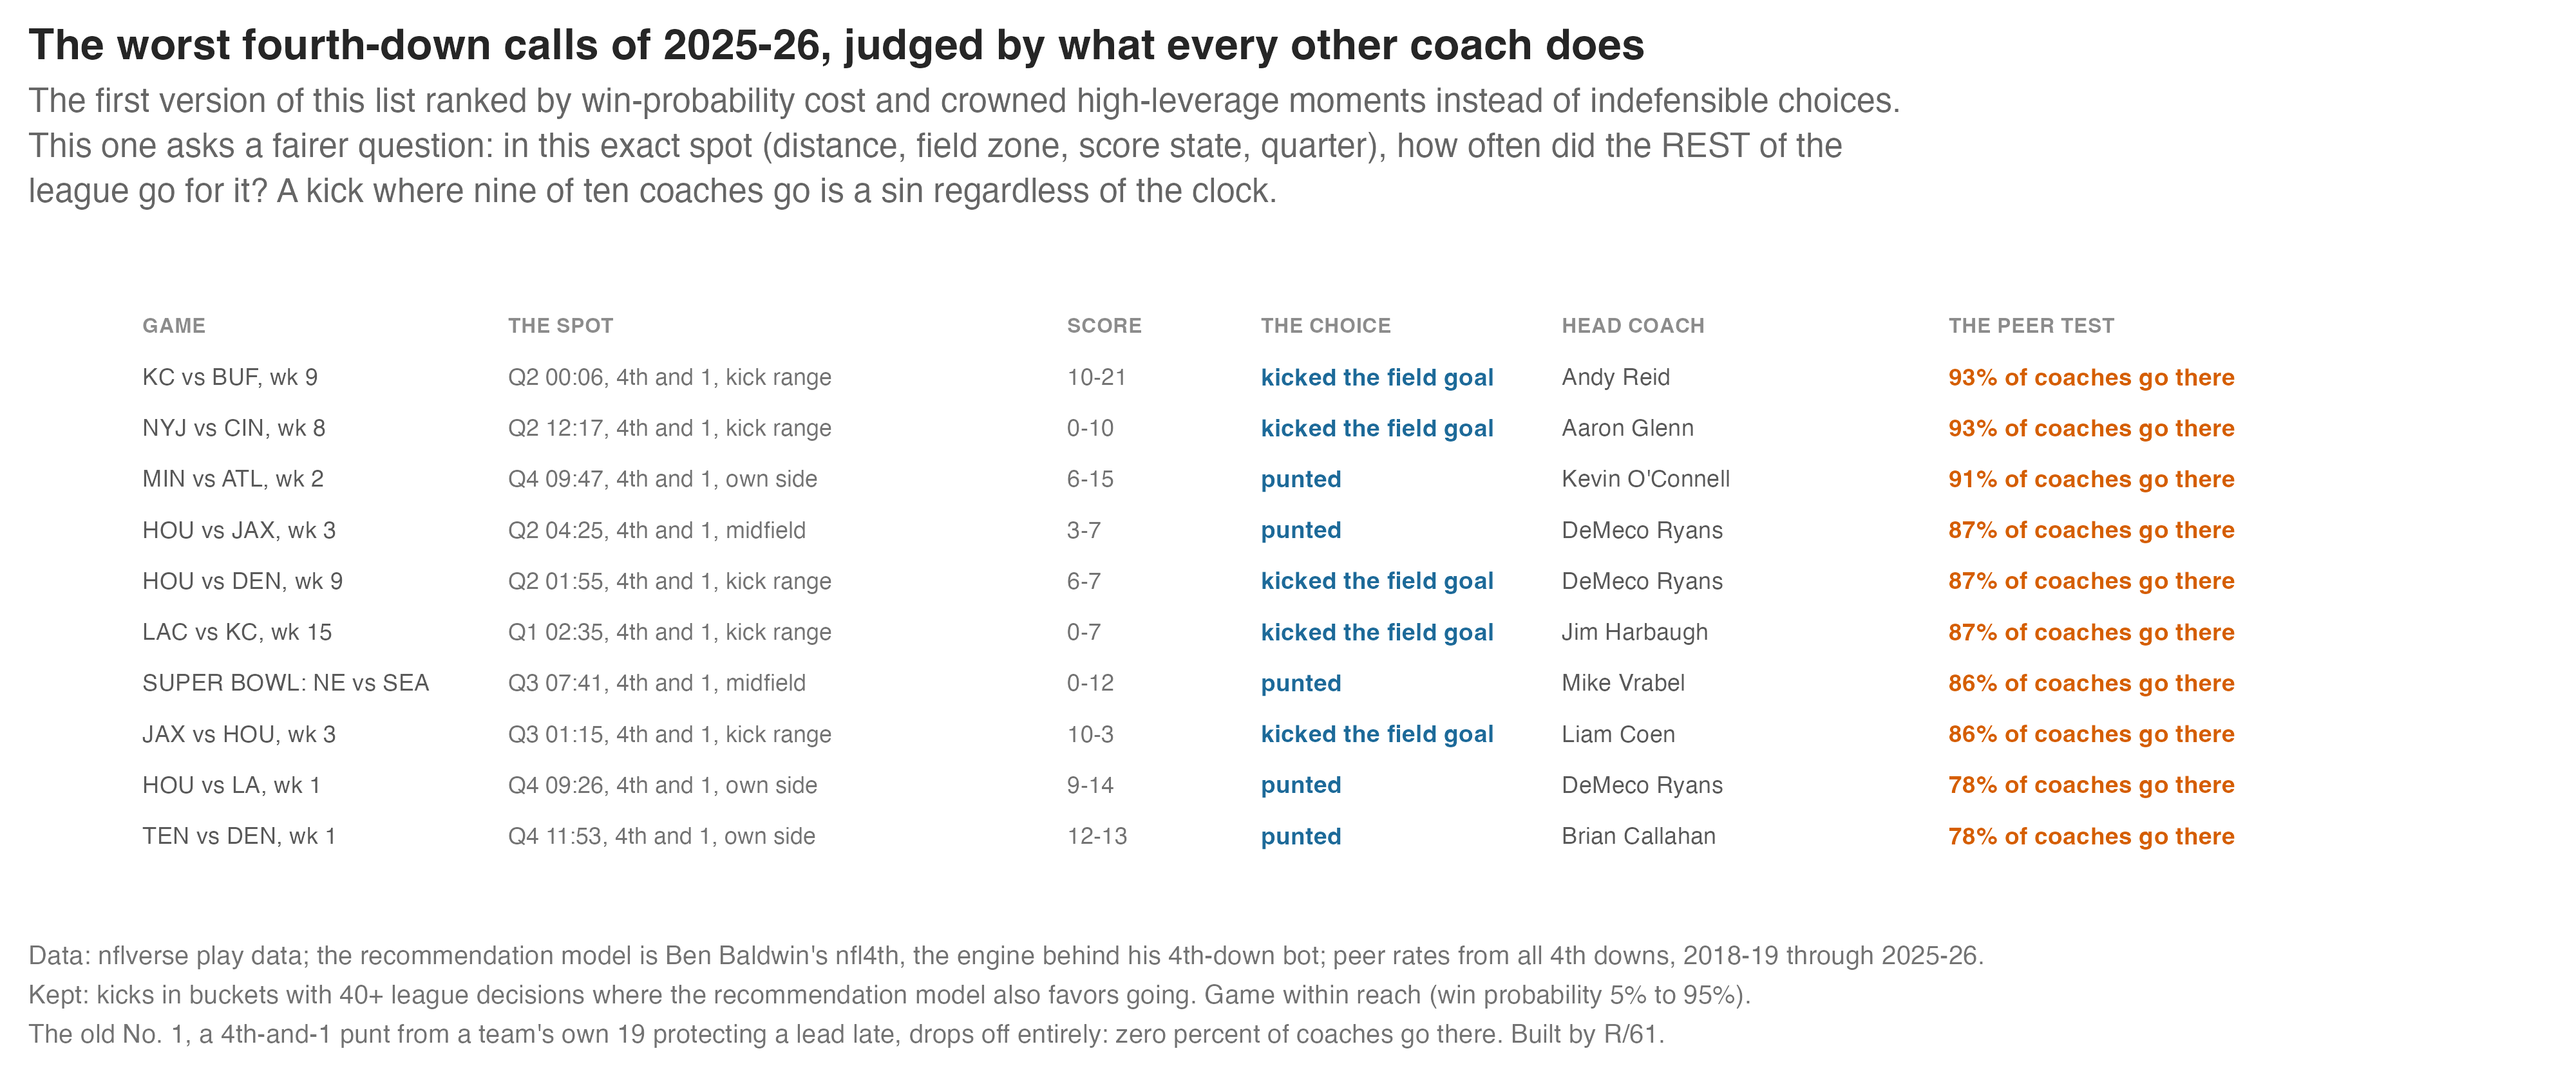
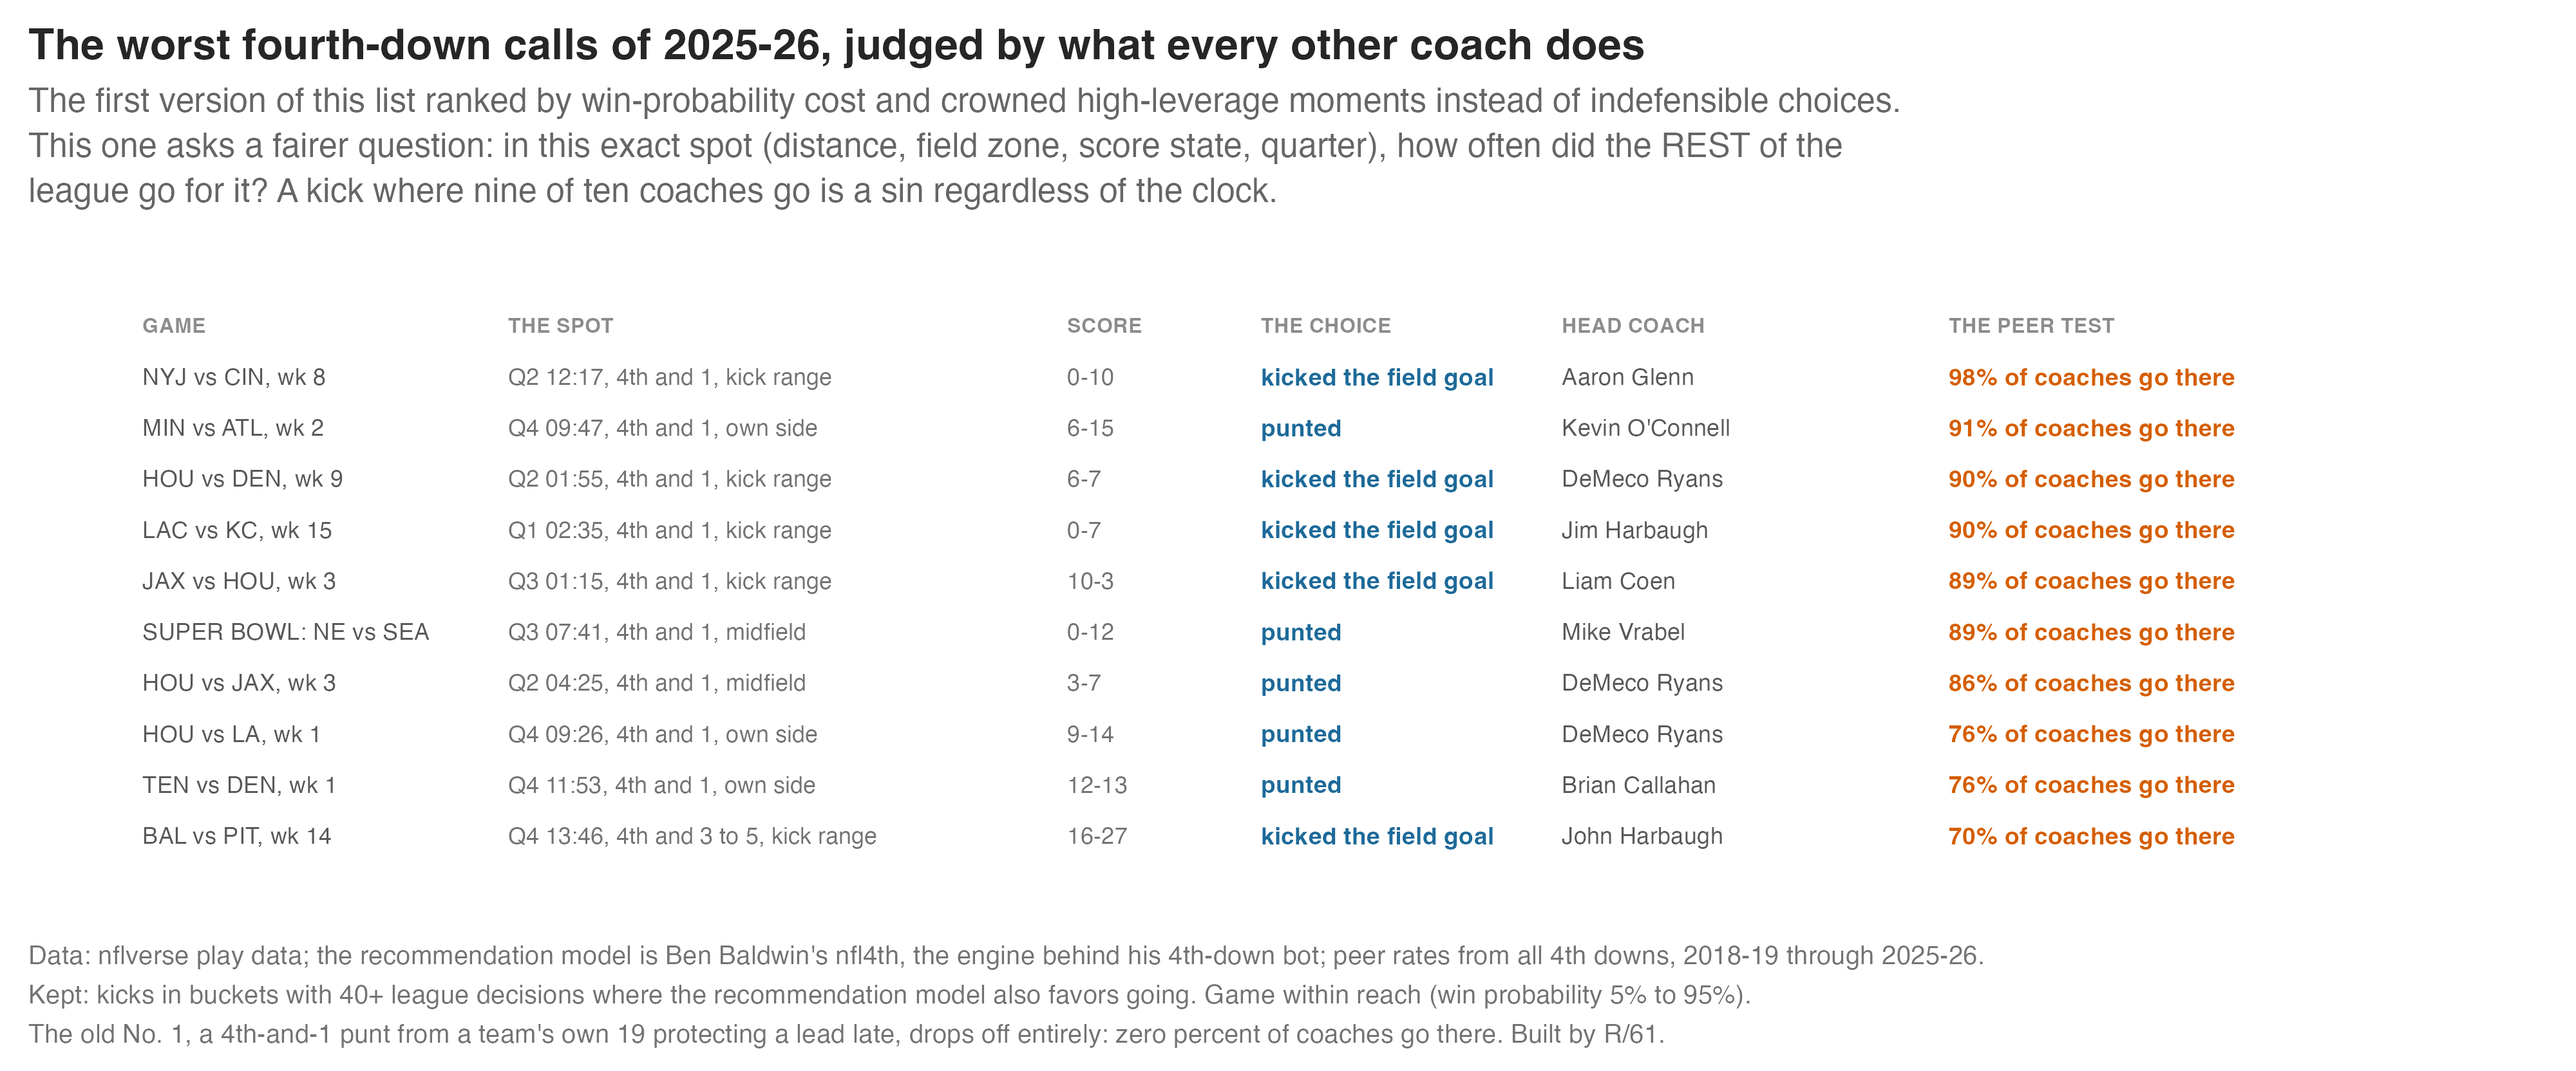
Peer buckets learn about end-of-half after film check; Reid artifact drops

diff --git a/docs/index.html b/docs/index.html
@@ -180,7 +180,7 @@
     <div class="card">
       <div class="card-head"><span class="t">The worst fourth-down calls of 2025-26, and the bravery spread</span><span class="pill ship">Two asks, two charts</span></div>
       <p class="row"><span class="lab">Michael:</span> "What were the worst 4th down decisions for 2025? And in the playoffs?" / "For the coach bravery, how much do coaches vary? I know you have a few things on this but I am wondering if there is an easier way to visualize."</p>
-      <p class="row found"><span class="lab">The first version of this list was wrong in an instructive way, and the film check caught it.</span> Ranked by raw win-probability cost, the "worst" calls were all late-game punts in one-score games, including a 4th-and-1 punt from a team's own 19 protecting a lead, a spot where literally zero percent of coaches go. The model was not miscomputed (it reproduces fresh); the metric conflates how wrong a choice is with how big the moment is. The rebuilt ledger asks the fairer question: in this exact spot, distance, field zone, score state, and quarter, how often did the REST of the league go for it? Now the list reads like film sense: Andy Reid kicking a field goal on 4th-and-1 down big (93% of coaches go there), DeMeco Ryans appearing three times, and Mike Vrabel punting from midfield down big in the third quarter of the Super Bowl (86% go). The bravery spread stays: Kingsbury +10 to Jim Harbaugh &minus;18 on the same class of decision, repeating at r = 0.76.</p>
+      <p class="row found"><span class="lab">The first version of this list was wrong in an instructive way, and the film check caught it.</span> Ranked by raw win-probability cost, the "worst" calls were all late-game punts in one-score games, including a 4th-and-1 punt from a team's own 19 protecting a lead, a spot where literally zero percent of coaches go. The model was not miscomputed (it reproduces fresh); the metric conflates how wrong a choice is with how big the moment is. The rebuilt ledger asks the fairer question: in this exact spot, distance, field zone, score state, and quarter, how often did the REST of the league go for it? After a second film check caught an end-of-half artifact (a field goal with six seconds left in the half graded as if the half were not ending), the buckets now know when a half is dying. The list that survives reads like film sense: Aaron Glenn kicking a field goal on 4th-and-1 mid-second-quarter, DeMeco Ryans appearing three times, and Mike Vrabel punting from midfield down big in the third quarter of the Super Bowl. The bravery spread stays: Kingsbury +10 to Jim Harbaugh &minus;18 on the same class of decision, repeating at r = 0.76.</p>
       <figure>
         <img src="figures/worst_fourth_v2.png" alt="Ledger of the ten most indefensible fourth-down kicks of 2025-26 judged by peer behavior, Andy Reid first at 93 percent of coaches going, Vrabel's Super Bowl punt included.">
         <figcaption>The rebuilt ledger: judged by what every other coach does in the same spot. Built by R/61.</figcaption>
